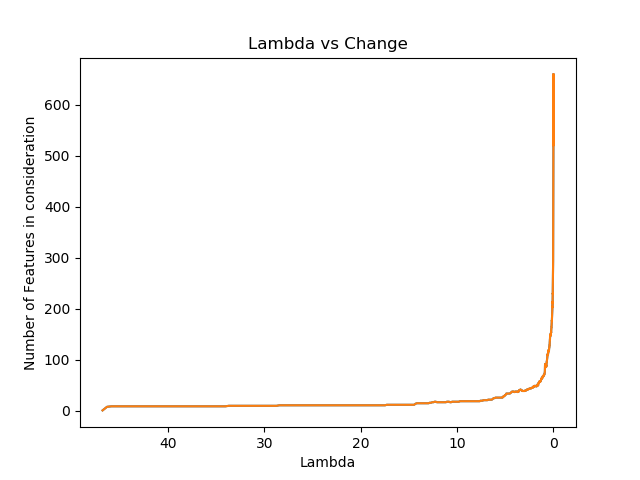
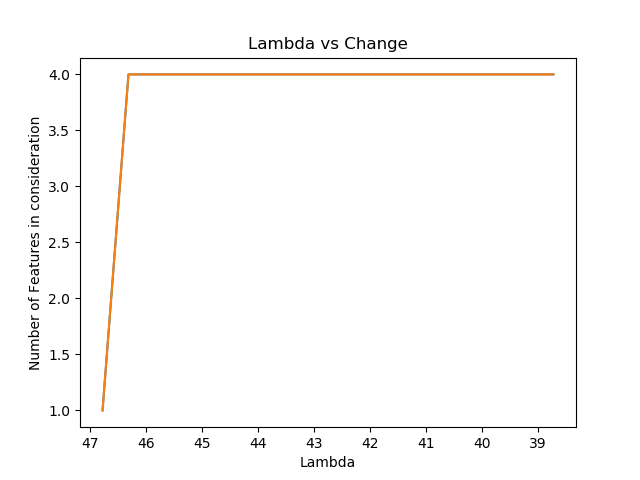
Wednesday Morning Update

diff --git a/hw3/Question3.py b/hw3/Question3.py
@@ -24,29 +24,28 @@ def question_one_metrics(w,initial = True):
         global wo
         wo = w.copy()
     if not (initial):
-        result_array = np.isin(np.nonzero(w),np.nonzero(wo))
-        # print(np.sum(result_array))
-        fdr = np.sum(np.invert(result_array))/np.count_nonzero(w)
-        #print(np.sum(np.equal(wo,w)))
+        result_array = np.isin(np.nonzero(w)[0],np.nonzero(wo)[0])
+        fdr = (np.count_nonzero(w)-np.sum(result_array))/np.count_nonzero(w)
         tpr = np.sum(result_array)/np.count_nonzero(wo)
         return fdr,tpr
 
 
 def random_data(): # Generating Random Data with n features and d examples
-    x = np.random.randn(500,1000)
+    x = np.random.randn(n,d)
     #x = preprocessing(x)
-    w = np.zeros((500,1))
+    w = np.zeros((d,1))
     for i in range(k):
         w[i] = (i+1)/k
     print (w)
     question_one_metrics(w)
     #print (w)
-    y = w.T@x + np.random.randn(1,1000)
+    y = w.T@x.T + np.random.randn(1,n)
+    print (y.shape)
     #print (y.shape,x.shape)
     return x,y
 
 def model_definiton(x,y):
-    lambda_max = np.max(2*np.absolute(x@(y-np.mean(y)).T))
+    lambda_max = np.max(2*np.absolute(x.T@(y-np.mean(y)).T))
     print (lambda_max)
     return lambda_max
 
@@ -68,59 +67,68 @@ def plotter(x , ys , title, xlabel, ylabel, flag):
     plt.savefig(os.path.basename(__main__.__file__[:-3])+"/"+title+".png")
 
 def lasso(x,y,lam):
-    w = np.zeros((500,1))
+    print(y.shape)
+    w = np.zeros((d,1))
     fdrs = []
     tprs = []
+    sums = []
     changes = []
     lams = []
     delta = 100000
-    wold = np.repeat(100,500).reshape(500,1)
-    wold2 = np.repeat(100,500).reshape(500,1)
+    wold = np.repeat(100,d).reshape(d,1)
+    wold2 = np.repeat(100,d).reshape(d,1)
+    print(x.shape)
     # while delta > .0001:
-    for i in tqdm(range(500)): #TODO: Optimize the stopping criteria
+    for j in tqdm(range(20)):
         wold = np.copy(w)
-        b = np.mean(y-w.T@x)
-        for k in range(x.shape[0]):
-            wj = np.copy(w)
-            wj[k] = 0
-            # print(y.shape,wj.shape,x.shape)
-            # exit()
-            a = 2*(np.sum(np.square(x[k])))
-            #print(x[k].shape,y.shape,wj.shape)
-            c = 2*(x[k].reshape(1,1000)@(y-(b+wj.T@x)).T) #TODO check
-            if c < -lam:
-                wk = (c+lam)/a
-            if c >= -lam and c <= lam:
-                wk = 0
-            if c > lam:
-                wk = (c-lam)/a
-            #print (c, lam, wk)
-            w[k] = wk
-        sum = np.sum(np.square(w.T@x-y+b))+lam*np.linalg.norm(w,1)
-        #print(np.max(np.abs(w-wold)))
-            #print(sum)
-        #print (w[0:100])
-        #sum = np.sum(np.square(w.T@x-y+b))+lam*np.linalg.norm(w,1)
-        lams.append(lam)
-        lam = lam/1.01
-        #print (w)
-        #print(i,w,wold)
-        change = np.count_nonzero(w-wold)
+        for i in tqdm(range(1)): #TODO: Optimize the stopping criteria
+            b = np.mean(y-w.T@x)
+            for k in range(x.shape[0]):
+                wj = np.copy(w)
+                wj[k] = 0
+                # print(y.shape,wj.shape,x.shape)
+                # exit()
+                a = 2*(np.sum(np.square(x[k])))
+                #print(x[k].shape,y.shape,wj.shape)
+                c = 2*(x[k].reshape(1,x.shape[1])@(y-(b+wj.T@x)).T) #TODO check
+                if c < -lam:
+                    wk = (c+lam)/a
+                if c >= -lam and c <= lam:
+                    wk = 0
+                if c > lam:
+                    wk = (c-lam)/a
+                #print (c, lam, wk)
+                w[k] = wk
+                b = np.mean(y-w.T@x)
+            sum = np.sum(np.square(w.T@x-y+b))+lam*np.linalg.norm(w,1)
+            #print(np.max(np.abs(w-wold)))
+                #print(sum)
+            #print (w[0:100])
+            #sum = np.sum(np.square(w.T@x-y+b))+lam*np.linalg.norm(w,1)
+            #print (w)
+            #print(i,w,wold)
+            sums.append(sum)
+
+            #print (change)
         fdr, tpr = question_one_metrics(w,False)
         fdrs.append(fdr)
         tprs.append(tpr)
-        #print (change)
+        change = np.count_nonzero(w-wold)
         changes.append(change)
+        lams.append(lam)
+        lam = lam/1.5
     #print(w)
-    return changes, fdrs, tprs, lams
+    return changes, fdrs, tprs, lams, sums
 
 def Question_3():
     x,y = random_data()
     lam = model_definiton(x,y)
-    changes, fdrs, tprs, lams = lasso(x,y,lam)
+    print("Lam:",lam)
+    changes, fdrs, tprs, lams, sums = lasso(x.T,y,lam)
     print (len(lams[1:]))
     plotter(lams[1:],[changes[1:]],title = "Number of features vs Lambda ", xlabel = "Lambda", ylabel = "Number of Features",flag = True)
-    plotter(fdrs[1:],[tprs[1:]],title = "Fdrs vs tprs ", xlabel = "FDRS", ylabel = "TPRS ",flag = True)
+    plotter(fdrs[1:],[tprs[1:]],title = "Fdrs vs tprs ", xlabel = "FDRS", ylabel = "TPRS ",flag = False)
+    plotter(np.arange(1,len(sums)+1), [sums], title = "Cost vs Iterations", xlabel = "Iterations", ylabel = "Cost", flag = False)
 
 if __name__ == "__main__":
     Question_3()

diff --git a/hw3/Question4.py b/hw3/Question4.py
@@ -34,27 +34,29 @@ def lasso(x ,y,x_valid,y_valid,lam):
     changes = []
     # while delta > .0001:
     w = w = np.zeros((x.shape[0],1))
-    for i in tqdm(range(1000)): #TODO: Optimize the stopping criteria
+    for j in tqdm(range(20)):
         wold = np.copy(w)
-        b = np.mean(y-w.T@x)
-        for k in range(x.shape[0]):
-            wj = np.copy(w)
-            wj[k] = 0
-            # print(y.shape,wj.shape,x.shape)
-            # exit()
-            a = 2*(np.sum(np.square(x[k])))
-            #print(x[k].shape,y.shape,wj.shape)
-            c = 2*(x[k].reshape(1,x.shape[1])@(y-(b+wj.T@x)).T) #TODO check
-            if c < -lam:
-                wk = (c+lam)/a
-            if c >= -lam and c <= lam:
-                wk = 0
-            if c > lam:
-                wk = (c-lam)/a
-            #print (c, lam, wk)
-            w[k] = wk
+        for i in tqdm(range(1)): #TODO: Optimize the stopping criteria
+            b = np.mean(y-w.T@x)
+            for k in range(x.shape[0]):
+                wj = np.copy(w)
+                wj[k] = 0
+                # print(y.shape,wj.shape,x.shape)
+                # exit()
+                a = 2*(np.sum(np.square(x[k])))
+                #print(x[k].shape,y.shape,wj.shape)
+                c = 2*(x[k].reshape(1,x.shape[1])@(y-(b+wj.T@x)).T) #TODO check
+                if c < -lam:
+                    wk = (c+lam)/a
+                if c >= -lam and c <= lam:
+                    wk = 0
+                if c > lam:
+                    wk = (c-lam)/a
+                #print (c, lam, wk)
+                w[k] = wk
+                b = np.mean(y-w.T@x)
+            sum = np.sum(np.square(w.T@x-y+b))+lam*np.linalg.norm(w,1)
         change = np.count_nonzero(w-wold)
-        sum = np.sum(np.square(w.T@x-y+b))+lam*np.linalg.norm(w,1)
         y_predict_valid = predict(x_valid,w)
         y_predict_train = predict(x,w)
         error_train = compute_error(y_predict_train,y)
@@ -68,7 +70,7 @@ def lasso(x ,y,x_valid,y_valid,lam):
     return errors_valid,errors_train, lams, changes, w, sums
 
 
-lam = model_definiton(x_train.T,y_train.T)
+lam = model_definiton(x_train,y_train)
 errors_valid,errors_train, lams,changes,w, sums = lasso(x_train.T,y_train.T,x_valid.T,y_valid.T,lam)
 plotter(lams,[errors_train,errors_valid],"Lambda vs Error","Lambda","Error", True)
 plotter(lams,[changes],"Lambda vs Change","Lambda","Number of Features in consideration", True)

diff --git a/hw3/Question5.py b/hw3/Question5.py
@@ -111,6 +111,7 @@ def gradient_descent(x,y,xt,yt,stochastic,batch = 1):
 
 
 x_train, x_test, y_train, y_test = load_data()
-# print(y_train,y_test)
-# print(x_train.shape,y_train.shape)
+print(x_test.shape,y_test.shape)
+print(x_train.shape,y_train.shape)
+ecit()
 gradient_descent(x_train,y_train.reshape(y_train.shape[0],1),x_test,y_test.reshape(y_test.shape[0],1),True,1000)
